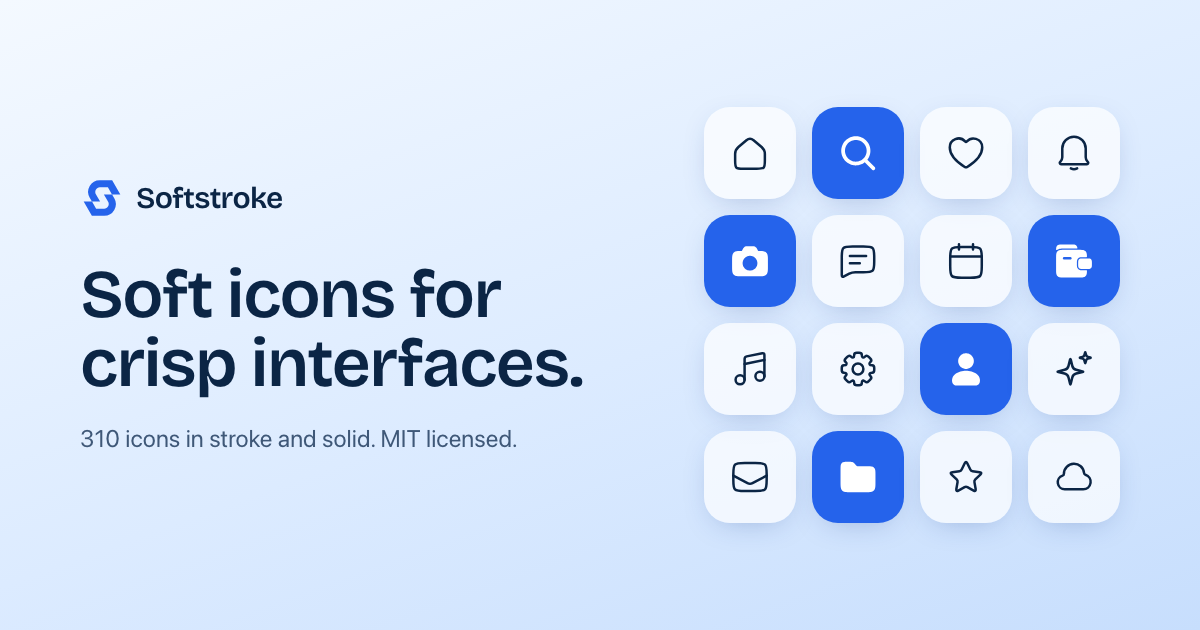
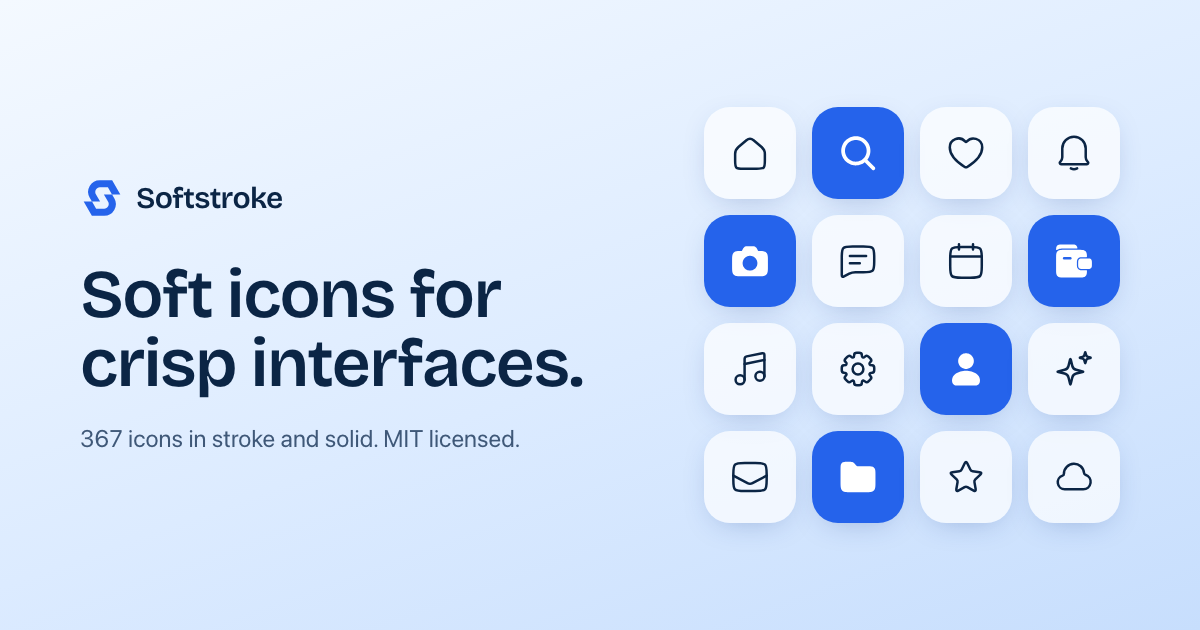
Release 1.2.0
Packages at 1.2.0, changelog entry, og image re-captured. The site and docs read the icon count from the svg package at build time instead of hardcoding it.

Changed region(s): [[0.0617, 0.6635, 0.4317, 0.7238]]

diff --git a/web/src/app/changelog/page.tsx b/web/src/app/changelog/page.tsx
@@ -12,6 +12,46 @@ export const metadata: Metadata = {
 // Newest first. Set the date when the version is published to npm.
 const RELEASES: { version: string; date: string; summary: string; groups: { icon: IconName; title: string; items: string[] }[] }[] = [
   {
+    version: "1.2.0",
+    date: "November 14, 2026",
+    summary: "57 new icons for interfaces, arrows and text editing, each in stroke and solid. 367 icons in total; no icon renamed or removed.",
+    groups: [
+      {
+        icon: "DashboardIcon",
+        title: "Interface",
+        items: [
+          "plus-square, minus-square, x-square, check-check, ban, ellipsis-circle, bell-plus, command, crosshair, gauge.",
+          "Layout: app-window, columns, rows, table, kanban, dashboard, layout-list, panel-right, panel-bottom.",
+          "Controls: grip-vertical, grip-horizontal, sliders-vertical, toggle-left.",
+        ],
+      },
+      {
+        icon: "ArrowRightCircleIcon",
+        title: "Arrows",
+        items: [
+          "arrow-up, arrow-down, arrow-left and arrow-right in a circle; arrow-up-to-line, arrow-down-to-line.",
+          "chevrons-up, chevrons-down, chevron-first, chevron-last; four corner arrows; move-diagonal, expand, shrink.",
+        ],
+      },
+      {
+        icon: "PenLineIcon",
+        title: "Text and editing",
+        items: [
+          "heading, strikethrough, quote, text-cursor, align-justify, list-ordered, list-checks, indent, outdent.",
+          "Tools: pen-line, highlighter, eraser, brush, pipette, ruler; plus languages and signature.",
+        ],
+      },
+      {
+        icon: "SparklesIcon",
+        title: "Fixes",
+        items: [
+          "The award, gift, graduation-cap and truck solids follow their stroke icon's outline: parts that touch stay together.",
+          "Icon browser: two new categories (Charts and data, Development) and 23 icons moved to the category they belong in.",
+        ],
+      },
+    ],
+  },
+  {
     version: "1.1.0",
     date: "November 14, 2026",
     summary: "Better proportions and cleaner solids. Same 310 icons and names, nothing to change in your code.",

diff --git a/web/src/components/icons/IconBrowser.tsx b/web/src/components/icons/IconBrowser.tsx
@@ -7,6 +7,7 @@ import solidNodes from "@softstroke/svg/icons-solid.json";
 import keywords from "@softstroke/svg/keywords.json";
 import categories from "@softstroke/svg/categories.json";
 import { useCopy } from "../CopyCommand";
+import { ICON_COUNT } from "@/lib/count";
 
 type Nodes = [string, Record<string, string>][];
 type Style = "stroke" | "solid";
@@ -16,7 +17,8 @@ const KEYWORDS = keywords as Record<string, string[]>;
 const CATEGORY = categories as Record<string, string>;
 // Categories alphabetically, each with its icon count and a representative icon (sidebar).
 const CAT_ICON: Record<string, string> = {
-  Arrows: "arrow-up-right", Commerce: "cart", Communication: "chat", Devices: "smartphone", Editing: "type", Files: "folder",
+  Arrows: "arrow-up-right", "Charts and data": "bar-chart", Commerce: "cart", Communication: "chat", Development: "code", Devices: "smartphone",
+  Editing: "type", Files: "folder",
   Interface: "layout", Media: "play-circle", Objects: "lightbulb", "People and security": "shield-check", Time: "clock",
   Travel: "map-pin", "Weather and nature": "cloud-sun",
 };
@@ -128,7 +130,7 @@ export function IconBrowser() {
             value={query}
             maxLength={50}
             onChange={(e) => setQuery(e.target.value)}
-            placeholder="Search 310 icons"
+            placeholder={`Search ${ICON_COUNT} icons`}
             className="h-11 min-w-0 flex-1 bg-transparent text-base outline-none placeholder:text-muted focus-visible:outline-none"
           />
           {query ? (

diff --git a/web/src/app/icon-font/page.tsx b/web/src/app/icon-font/page.tsx
@@ -8,10 +8,11 @@ import { GlyphWall } from "@/components/iconfont/GlyphWall";
 import { highlight } from "@/lib/docs";
 import { StrokeIcon, type IconName } from "@/lib/icons";
 import { BASE, FONT_CDN } from "@/lib/site";
+import { ICON_COUNT } from "@/lib/count";
 
 export const metadata: Metadata = {
   title: "Icon font | Softstroke",
-  description: "All 310 Softstroke icons in stroke and solid as a web font. One CSS link, no build step.",
+  description: `All ${ICON_COUNT} Softstroke icons in stroke and solid as a web font. One CSS link, no build step.`,
 };
 
 const LINK = `<link rel="stylesheet" href="${FONT_CDN}" />`;
@@ -57,7 +58,7 @@ export default async function IconFontPage() {
             <div className="min-w-0">
               <h1 className="font-display text-5xl font-semibold leading-[1.02] tracking-tight md:text-6xl">Every icon, one CSS link.</h1>
               <p className="mt-6 max-w-[44ch] text-lg leading-relaxed text-muted">
-                All 310 icons in stroke and solid as a web font. For pages where a build step is more than you need.
+                All {ICON_COUNT} icons in stroke and solid as a web font. For pages where a build step is more than you need.
               </p>
               <div className="glass mt-8 flex max-w-full items-center gap-2 rounded-2xl py-2 pl-4 pr-2">
                 <code className="min-w-0 flex-1 overflow-x-auto whitespace-nowrap font-mono text-[13px]">{FONT_CDN}</code>

diff --git a/web/src/app/layout.tsx b/web/src/app/layout.tsx
@@ -3,6 +3,7 @@ import { Bricolage_Grotesque, Geist, Geist_Mono } from "next/font/google";
 import { SmoothScroll } from "@/components/SmoothScroll";
 import { themeScript } from "@/lib/theme";
 import "./globals.css";
+import { ICON_COUNT } from "@/lib/count";
 
 const bricolage = Bricolage_Grotesque({
   variable: "--font-bricolage",
@@ -23,12 +24,12 @@ export const metadata: Metadata = {
   // Relative URLs (og.png) resolve against this, including the /softstroke base path.
   metadataBase: new URL("https://sarthak102.github.io/softstroke/"),
   title: "Softstroke | Soft, rounded open-source icons",
-  description: "310 soft, rounded icons in stroke and solid for React, React Native, Vue, Svelte, Angular, SVG and an icon font. MIT licensed.",
+  description: `${ICON_COUNT} soft, rounded icons in stroke and solid for React, React Native, Vue, Svelte, Angular, SVG and an icon font. MIT licensed.`,
   openGraph: {
     type: "website",
     siteName: "Softstroke",
     title: "Softstroke | Soft, rounded open-source icons",
-    description: "310 icons in stroke and solid for every major framework. MIT licensed.",
+    description: `${ICON_COUNT} icons in stroke and solid for every major framework. MIT licensed.`,
     images: [{ url: "og.png", width: 1200, height: 630, alt: "Softstroke: soft icons for crisp interfaces" }],
   },
   twitter: { card: "summary_large_image", images: ["og.png"] },

diff --git a/web/src/lib/docs.ts b/web/src/lib/docs.ts
@@ -3,6 +3,7 @@ import { join } from "node:path";
 import { Marked, type Tokens } from "marked";
 import { createHighlighter } from "shiki";
 import { BASE } from "./site";
+import { ICON_COUNT } from "./count";
 
 export const DOC_GROUPS: { title: string; pages: { slug: string; title: string }[] }[] = [
   { title: "Getting started", pages: [{ slug: "", title: "Introduction" }, { slug: "installation", title: "Installation" }] },
@@ -51,7 +52,8 @@ const getHighlighter = () =>
 export async function loadDoc(slug: string): Promise<Doc> {
   const page = DOC_PAGES.find((p) => p.slug === slug);
   if (!page) throw new Error(`no doc page "${slug}"`);
-  const file = readFileSync(join(process.cwd(), "content/docs", `${slug || "introduction"}.md`), "utf8");
+  // {icon-count} in the docs = the current number of icons
+  const file = readFileSync(join(process.cwd(), "content/docs", `${slug || "introduction"}.md`), "utf8").replaceAll("{icon-count}", ICON_COUNT ?? "");
   const [, front, body] = file.match(/^---\n([\s\S]*?)\n---\n([\s\S]*)$/)!;
   const meta = Object.fromEntries(front.split("\n").map((l) => [l.slice(0, l.indexOf(":")), l.slice(l.indexOf(":") + 1).trim()]));
 

diff --git a/web/src/components/Footer.tsx b/web/src/components/Footer.tsx
@@ -9,6 +9,7 @@ import { ArrowRightIcon } from "@softstroke/react";
 import { CopyCommand } from "./CopyCommand";
 import { LogoMark } from "./Logo";
 import { GITHUB_URL } from "@/lib/site";
+import { ICON_COUNT } from "@/lib/count";
 
 gsap.registerPlugin(ScrollTrigger);
 
@@ -46,7 +47,7 @@ export function Footer() {
           <div className="grid gap-14 lg:grid-cols-[1.15fr_1fr] lg:gap-16">
             <div>
               <h2 className="ft-in max-w-[14ch] font-display text-5xl font-semibold leading-[1.02] tracking-tight md:text-6xl">Start with one icon.</h2>
-              <p className="ft-in mt-5 max-w-[40ch] text-lg text-muted">All 310, in both styles, free for personal and commercial work.</p>
+              <p className="ft-in mt-5 max-w-[40ch] text-lg text-muted">All {ICON_COUNT}, in both styles, free for personal and commercial work.</p>
               <div className="ft-in mt-8 flex flex-wrap gap-3">
                 <Link href="/icons/" prefetch={false} className="group flex items-center gap-2 rounded-full bg-accent px-6 py-3 font-medium text-accent-ink shadow-[var(--shadow)] transition-transform active:scale-[0.98]">
                   Browse icons

diff --git a/web/src/components/NotFoundSearch.tsx b/web/src/components/NotFoundSearch.tsx
@@ -3,6 +3,7 @@
 import { useRouter } from "next/navigation";
 import { useState } from "react";
 import { SearchIcon } from "@softstroke/react";
+import { ICON_COUNT } from "@/lib/count";
 
 export function NotFoundSearch() {
   const [q, setQ] = useState("");
@@ -18,7 +19,7 @@ export function NotFoundSearch() {
     >
       <SearchIcon size={18} className="shrink-0 text-muted" />
       <label htmlFor="nf-q" className="sr-only">Search icons</label>
-      <input id="nf-q" value={q} maxLength={50} onChange={(e) => setQ(e.target.value)} placeholder="Search 310 icons" className="h-10 min-w-0 flex-1 bg-transparent outline-none placeholder:text-muted focus-visible:outline-none" />
+      <input id="nf-q" value={q} maxLength={50} onChange={(e) => setQ(e.target.value)} placeholder={`Search ${ICON_COUNT} icons`} className="h-10 min-w-0 flex-1 bg-transparent outline-none placeholder:text-muted focus-visible:outline-none" />
       <button type="submit" className="rounded-full bg-accent px-4 py-2 text-sm font-medium text-accent-ink active:scale-[0.98]">Search</button>
     </form>
   );

diff --git a/web/src/app/og/page.tsx b/web/src/app/og/page.tsx
@@ -3,6 +3,7 @@ import * as Stroke from "@softstroke/react";
 import * as Solid from "@softstroke/react/solid";
 import { LogoMark } from "@/components/Logo";
 import type { IconName } from "@/lib/icons";
+import { ICON_COUNT } from "@/lib/count";
 
 // Social preview source: screenshot at 1200x630 into public/og.png (see web/README or the plan). Not linked, not indexed.
 export const metadata: Metadata = { title: "Softstroke preview", robots: { index: false, follow: false } };
@@ -18,7 +19,7 @@ export default function OgImage() {
           Softstroke
         </p>
         <h1 className="mt-10 font-display text-[68px] font-semibold leading-[1.02] tracking-tight">Soft icons for crisp interfaces.</h1>
-        <p className="mt-6 text-2xl text-[#3f5878]">310 icons in stroke and solid. MIT licensed.</p>
+        <p className="mt-6 text-2xl text-[#3f5878]">{ICON_COUNT} icons in stroke and solid. MIT licensed.</p>
       </div>
       <div className="grid grid-cols-4 gap-4">
         {NAMES.map((n, i) => {

diff --git a/web/src/app/use-cases/page.tsx b/web/src/app/use-cases/page.tsx
@@ -5,6 +5,7 @@ import { Footer } from "@/components/Footer";
 import { Nav } from "@/components/Nav";
 import { StrokeIcon, type IconName } from "@/lib/icons";
 import { BASE } from "@/lib/site";
+import { ICON_COUNT } from "@/lib/count";
 
 export const metadata: Metadata = {
   title: "Use cases | Softstroke",
@@ -98,7 +99,7 @@ export default function UseCasesPage() {
             prefetch={false}
             className="group flex items-center gap-2 rounded-full bg-accent px-6 py-3 font-medium text-accent-ink shadow-[var(--shadow)] transition-transform active:scale-[0.98]"
           >
-            Browse all 310 icons
+            Browse all {ICON_COUNT} icons
             <ArrowRightIcon size={18} className="transition-transform group-hover:translate-x-0.5" />
           </Link>
           <Link href="/docs/" className="rounded-full px-4 py-3 text-sm font-medium text-accent-text hover:underline">

diff --git a/web/src/components/Hero.tsx b/web/src/components/Hero.tsx
@@ -2,6 +2,7 @@ import Link from "next/link";
 import { ArrowRightIcon } from "@softstroke/react";
 import { CopyCommand } from "./CopyCommand";
 import { IconField } from "./IconField";
+import { ICON_COUNT } from "@/lib/count";
 
 export function Hero() {
   return (
@@ -12,7 +13,7 @@ export function Hero() {
             Soft icons for crisp interfaces.
           </h1>
           <p className="mt-6 max-w-[46ch] text-lg leading-relaxed text-muted">
-            310 icons in stroke and solid, drawn on a 24px grid. Free and MIT licensed for every major framework.
+            {ICON_COUNT} icons in stroke and solid, drawn on a 24px grid. Free and MIT licensed for every major framework.
           </p>
           <div className="mt-9 flex flex-wrap items-center gap-3">
             <Link

diff --git a/web/next.config.ts b/web/next.config.ts
@@ -1,4 +1,9 @@
+import { readFileSync } from "node:fs";
+import { join } from "node:path";
 import type { NextConfig } from "next";
+
+// Icon count for site copy, read from the built svg package so it follows every release.
+const icons = JSON.parse(readFileSync(join(process.cwd(), "node_modules/@softstroke/svg/dist/icons.json"), "utf8"));
 
 // Static export for GitHub Pages, served from /softstroke.
 const nextConfig: NextConfig = {
@@ -7,6 +12,7 @@ const nextConfig: NextConfig = {
   images: { unoptimized: true },
   trailingSlash: true,
   devIndicators: false,
+  env: { NEXT_PUBLIC_ICON_COUNT: String(Object.keys(icons).length) },
 };
 
 export default nextConfig;

diff --git a/web/src/app/icons/page.tsx b/web/src/app/icons/page.tsx
@@ -2,10 +2,11 @@ import type { Metadata } from "next";
 import { Footer } from "@/components/Footer";
 import { IconBrowser } from "@/components/icons/IconBrowser";
 import { Nav } from "@/components/Nav";
+import { ICON_COUNT } from "@/lib/count";
 
 export const metadata: Metadata = {
   title: "Icons | Softstroke",
-  description: "Search all 310 Softstroke icons in stroke and solid. Copy JSX, an import or raw SVG, or download.",
+  description: `Search all ${ICON_COUNT} Softstroke icons in stroke and solid. Copy JSX, an import or raw SVG, or download.`,
 };
 
 export default function IconsPage() {
